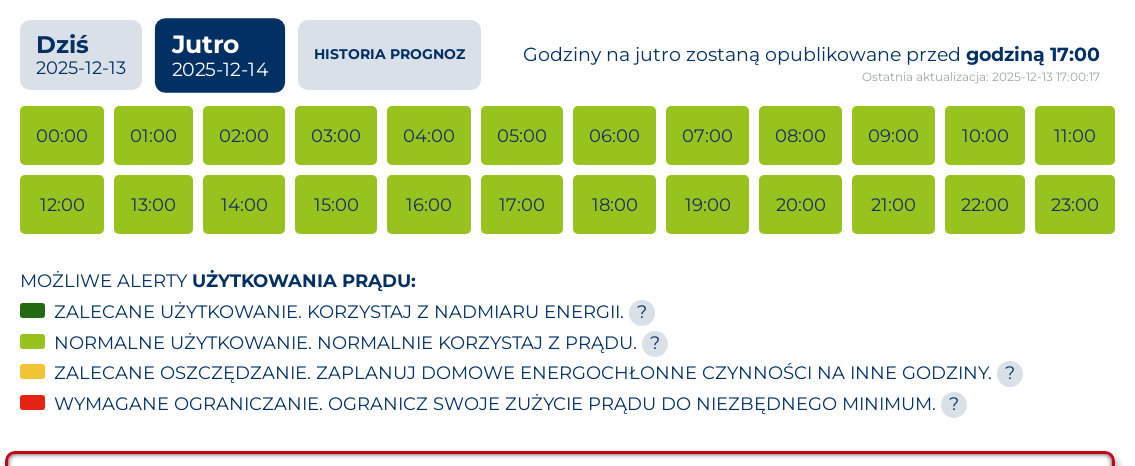
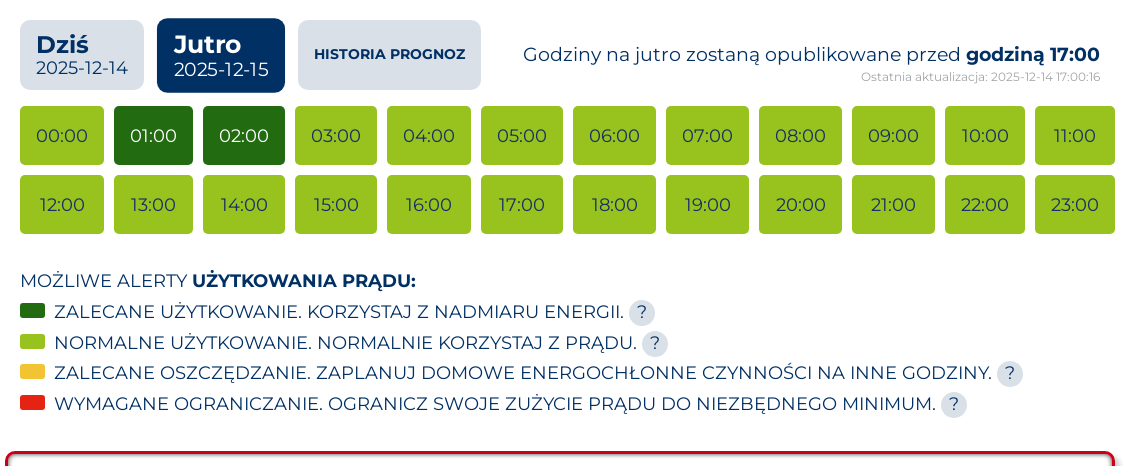
site: update 2025-12-14 17:00 UTC

Changed region(s): [[0.0925, 0.2103, 0.2775, 0.3605], [0.0925, 0.0601, 0.2467, 0.1803], [0.7709, 0.1502, 0.9251, 0.1803]]

diff --git a/site/html_01_tabele_wykresy_g14_today_tomorrow.html b/site/html_01_tabele_wykresy_g14_today_tomorrow.html
@@ -140,9 +140,9 @@
 <section class="hero">
   <div class="kicker">Dane</div>
   <h1>Taryfa — dzisiaj i jutro</h1>
-  <p class="muted">Strona wygenerowana: 2025-12-14 14:00:31</p>
+  <p class="muted">Strona wygenerowana: 2025-12-14 18:00:33</p>
   <p class="muted">Dane (dzisiaj) — ostatnia próbka: 2025-12-14 23:45:00</p>
-  <p class="muted">Dane (jutro) — ostatnia próbka: 2025-12-14 23:45:00</p>
+  <p class="muted">Dane (jutro) — ostatnia próbka: 2025-12-15 23:45:00</p>
 </section>
 
 <section class="content">
@@ -953,7 +953,7 @@
 
 <section class="content">
   <h2>Jutro</h2>
-  <p class="muted">Dzień danych: 2025-12-14</p>
+  <p class="muted">Dzień danych: 2025-12-15</p>
 
   
 
@@ -1012,7 +1012,7 @@
             <td class="left-2">01:15</td>
             <td class="cat-b">0,450</td>
             <td class="cat-b">b</td>
-            <td class="cat-b">0,560</td>
+            <td class="cat-b">0,510</td>
             <td class="cat-b">b</td>
           </tr>
           <tr>
@@ -1020,7 +1020,7 @@
             <td class="left-2">01:30</td>
             <td class="cat-b">0,449</td>
             <td class="cat-b">b</td>
-            <td class="cat-b">0,559</td>
+            <td class="cat-b">0,509</td>
             <td class="cat-b">b</td>
           </tr>
           <tr>
@@ -1028,7 +1028,7 @@
             <td class="left-2">01:45</td>
             <td class="cat-b">0,449</td>
             <td class="cat-b">b</td>
-            <td class="cat-b">0,559</td>
+            <td class="cat-b">0,509</td>
             <td class="cat-b">b</td>
           </tr>
           <tr>
@@ -1036,7 +1036,7 @@
             <td class="left-2">02:00</td>
             <td class="cat-b">0,447</td>
             <td class="cat-b">b</td>
-            <td class="cat-b">0,557</td>
+            <td class="cat-b">0,507</td>
             <td class="cat-b">b</td>
           </tr>
           <tr>
@@ -1044,7 +1044,7 @@
             <td class="left-2">02:15</td>
             <td class="cat-a">0,444</td>
             <td class="cat-a">a</td>
-            <td class="cat-a">0,554</td>
+            <td class="cat-a">0,504</td>
             <td class="cat-a">a</td>
           </tr>
           <tr>
@@ -1052,7 +1052,7 @@
             <td class="left-2">02:30</td>
             <td class="cat-a">0,444</td>
             <td class="cat-a">a</td>
-            <td class="cat-a">0,554</td>
+            <td class="cat-a">0,504</td>
             <td class="cat-a">a</td>
           </tr>
           <tr>
@@ -1060,7 +1060,7 @@
             <td class="left-2">02:45</td>
             <td class="cat-a">0,444</td>
             <td class="cat-a">a</td>
-            <td class="cat-a">0,554</td>
+            <td class="cat-a">0,504</td>
             <td class="cat-a">a</td>
           </tr>
           <tr>
@@ -1068,7 +1068,7 @@
             <td class="left-2">03:00</td>
             <td class="cat-b">0,444</td>
             <td class="cat-b">b</td>
-            <td class="cat-b">0,554</td>
+            <td class="cat-b">0,504</td>
             <td class="cat-b">b</td>
           </tr>
           <tr>
@@ -1748,12 +1748,12 @@
   </div>
 
   <h3>Ceny energii elektrycznej netto (RCE) — jutro</h3>
-  <div class="chart"><img class="small" src="assets/img/ceny_09_z_01_rce_tomorrow.png" alt="RCE tomorrow — 2025-12-14"><p class="muted">Wykres: assets/img/ceny_09_z_01_rce_tomorrow.png</p></div>
+  <div class="chart"><img class="small" src="assets/img/ceny_09_z_01_rce_tomorrow.png" alt="RCE tomorrow — 2025-12-15"><p class="muted">Wykres: assets/img/ceny_09_z_01_rce_tomorrow.png</p></div>
 
   <h3>Energetyczny Kompas PSE — na jutro</h3>
   <div class="chart">
-    <img class="kompas-img kompas-clickable" src="assets/img/ceny_03_kompas_tomorrow.png" data-full-src="assets/img/ceny_03_kompas_tomorrow.png" alt="Energetyczny Kompas PSE — 2025-12-14">
-    <p class="muted">Energetyczny Kompas PSE, data: 2025-12-14</p>
+    <img class="kompas-img kompas-clickable" src="assets/img/ceny_03_kompas_tomorrow.png" data-full-src="assets/img/ceny_03_kompas_tomorrow.png" alt="Energetyczny Kompas PSE — 2025-12-15">
+    <p class="muted">Energetyczny Kompas PSE, data: 2025-12-15</p>
   </div>
 </section>
 

diff --git a/site/html_02_raport_ze_stanu_teraz.html b/site/html_02_raport_ze_stanu_teraz.html
@@ -18,7 +18,7 @@
   </div>
 
   <section class="hero">
-    <div class="kicker">Ostatni odczyt: 14.12.2025 17:45</div>
+    <div class="kicker">Ostatni odczyt: 14.12.2025 18:00</div>
     <h1>Raport ze stanu teraz</h1>
     <p>
       Taryfy Tauron:
@@ -42,7 +42,7 @@
       <tbody>
         <tr>
           <th style="width:40%;">Czas odczytu</th>
-          <td>14.12.2025 17:45</td>
+          <td>14.12.2025 18:00</td>
         </tr>
         <tr>
           <th>Położenie</th>
@@ -66,7 +66,7 @@
         </tr>
         <tr>
           <th>Zużycie energii dzisiaj [kWh]</th>
-          <td>6.90</td>
+          <td>7.00</td>
         </tr>
         <tr>
           <th>Energia pobrana z sieci dzisiaj [kWh]</th>
@@ -78,11 +78,11 @@
         </tr>
         <tr>
           <th>Zużycie z własnego systemu dzisiaj [kWh]</th>
-          <td>5.30</td>
+          <td>5.40</td>
         </tr>
         <tr>
           <th>Wyjście inwertera dzisiaj [kWh]</th>
-          <td>5.30</td>
+          <td>5.40</td>
         </tr>
       </tbody>
     </table>
@@ -102,15 +102,15 @@
         </tr>
         <tr>
           <th>Moc do domu [W]</th>
-          <td>441</td>
+          <td>503</td>
         </tr>
         <tr>
           <th>Moc z / do sieci [W]</th>
-          <td>441</td>
+          <td>503</td>
         </tr>
         <tr>
           <th>Moc z / do baterii [W]</th>
-          <td>441</td>
+          <td>503</td>
         </tr>
       </tbody>
     </table>
@@ -122,7 +122,7 @@
       <tbody>
         <tr>
           <th style="width:40%;">Stan naładowania baterii SOC [%]</th>
-          <td>31.0</td>
+          <td>29.0</td>
         </tr>
         <tr>
           <th>Tryb pracy baterii</th>
@@ -130,7 +130,7 @@
         </tr>
         <tr>
           <th>Dostępna energia w baterii [kWh]</th>
-          <td>3.20</td>
+          <td>3.00</td>
         </tr>
       </tbody>
     </table>
@@ -150,7 +150,7 @@
         </tr>
         <tr>
           <th>Napięcie [V]</th>
-          <td>231.26</td>
+          <td>230.60</td>
         </tr>
         <tr>
           <th>Prąd [A]</th>

diff --git a/site/html_03_g13_g14_porownanie.html b/site/html_03_g13_g14_porownanie.html
@@ -18,7 +18,7 @@
   </div>
 
   <section class="hero">
-    <div class="kicker">Porównanie kosztów w taryfach G13 i G14, ostatni pomiar dla 15 min. 0 s wykonano 2025-12-14 17:45:18</div>
+    <div class="kicker">Porównanie kosztów w taryfach G13 i G14, ostatni pomiar dla 15 min. 0 s wykonano 2025-12-14 18:00:34</div>
     <h1>Koszt energii</h1>
     <p>
       Taryfy Tauron:
@@ -52,18 +52,18 @@
         <tr>
           <td style="width:60%;">Cena brutto [PLN/kWh]</td>
           <td title="Cena brutto taryfa G13">0,690</td>
-          <td title="Cena brutto taryfa G14">0,549</td>
+          <td title="Cena brutto taryfa G14">0,558</td>
         </tr>
         <tr>
           <td style="width:60%;">Koszt energii [PLN]</td>
-          <td title="Koszt energii w taryfie G13">0,207</td>
-          <td title="Koszt energii taryfa G14">0,165</td>
+          <td title="Koszt energii w taryfie G13">0,069</td>
+          <td title="Koszt energii taryfa G14">0,056</td>
         </tr>
         <tr>
           <td colspan="3">
             R&oacute;żnica pomiędzy kosztem w taryfie G14 a taryfie G13
             (G14 − G13):
-            <strong>-0,042 PLN</strong>
+            <strong>-0,013 PLN</strong>
           </td>
         </tr>
       </tbody>
